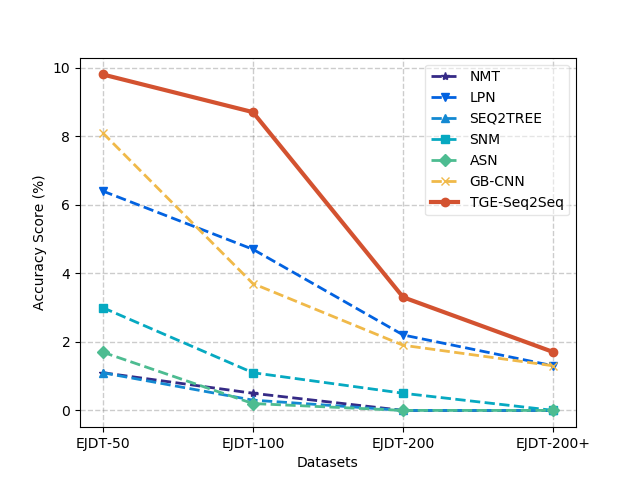
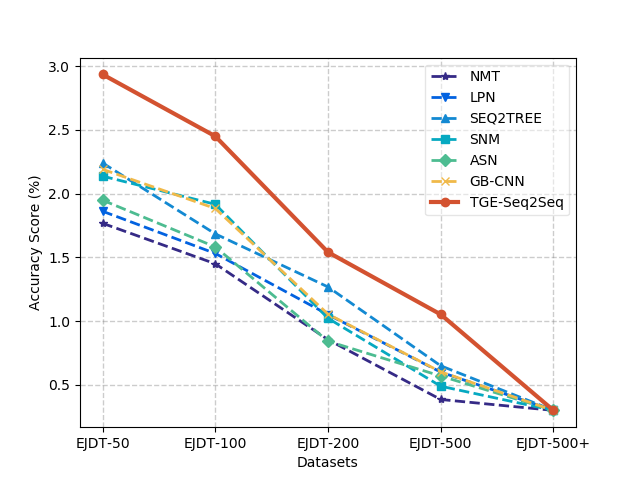
add some pic drawer

diff --git a/des_len_BLEU.py b/des_len_BLEU.py
@@ -5,36 +5,36 @@ import xlrd
 workbook = xlrd.open_workbook("tables.xlsx")
 sheet1 = workbook.sheet_by_index(7)
 
-x1 = ['[0,10]','[10,20]', '[20,30]', '[30,40]', '[0,50]', '[50,100]', '[100,150]', '[150,200]']
+x1 = ['...', '[10,20]', '[20,30]', '[30,40]', '[0,50]', '[50,100]', '[100,150]', '[150,200]','[200,500]','[500+]']
 x_1 = [10, 20, 30, 40]
-x_2 = [55, 75, 65]
-x_3 = [45, 65, 85, 95, 105]
-
-# x_1 = np.array(x_1)
-# x_2 = np.array(x_2)
-# x_3 = np.array(x_3)
+x_2 = [48.5, 58.5, 68.5]
+x_3 = [51.5, 61.5, 71.5, 80, 90, 100]
+x_0 = [15, 20, 30, 40, 50, 60, 70, 80, 90, 100]
+x_1 = np.array(x_1)
+x_2 = np.array(x_2)
+x_3 = np.array(x_3)
 
 data = []
 
-for i in range(15):
+for i in range(16):
     data.append(float(sheet1.cell_value(i+1, 7))/100)
 
 print(data)
 
 data = np.array(data)
 plt.title("")
-plt.xlabel("Datasets")
-plt.ylabel("BLEU")
+plt.xlabel("Description Length")
+plt.ylabel("BLEU Score (%)")
 
-plt.bar(x_1, data[0:4], width=5, label="HS", )  #NMT ACC
-plt.bar(x_2, data[5:8], width=5, label="MTG", )
-plt.bar(x_3, data[9:14], width=5, label="E-JDT",)
+plt.bar(x_1-5, data[0:4], width=3, label="HS", color='#db3934' )  #NMT ACC
+plt.bar(x_2-5, data[5:8], width=3, label="MTG", color='#ffc758' )
+plt.bar(x_3-5, data[9:15], width=3, label="E-JDT", color='#094b63')
 
-plt.xticks([index for index in x_1+x_2], x1)
-plt.xticks(rotation=-45)    # 设置x轴标签旋转角度
-plt.grid(linestyle = '--',linewidth =1, color= 'gray',alpha = 0.4)
+plt.xticks([index-5 for index in x_0], x1)
+plt.xticks(rotation=45)    # 设置x轴标签旋转角度
+plt.grid(linestyle='--', linewidth=1, color='gray', alpha=0.4)
 plt.legend(framealpha=0.5)
 # plt.ylim(0, 1)
-# plt.xlim(10, )
-plt.savefig("./figure/resultBLEU.png")
+plt.xlim(8, )
+plt.savefig("./figure/des_length_BLEU.png")
 plt.show()

diff --git a/big_exp_MTG_BLEU.py b/big_exp_MTG_BLEU.py
@@ -1,0 +1,35 @@
+from matplotlib import pyplot as plt
+import numpy as np
+import xlrd
+
+workbook = xlrd.open_workbook("tables.xlsx")
+sheet1 = workbook.sheet_by_index(5)
+
+x1 = ['MTG-50', 'MTG-100', 'MTG-200', 'MTG-200+']
+x = [1, 2, 3, 4]
+x = np.array(x)
+data = []
+_ = []
+for i in range(36):
+    for j in range(7):
+        _.append(sheet1.cell_value(i+1, j+2))
+    data.append(_)
+    _ = []
+
+plt.xlabel("Datasets")
+plt.ylabel("BLEU Score (%)")
+plt.plot(x, [data[12][0], data[15][0], data[18][0], data[21][0]], '*--', label='NMT', linewidth=2, color="#352A86")
+plt.plot(x, [data[12][1], data[15][1], data[18][1], data[21][1]], 'v--', label='LPN', linewidth=2, color="#0262E0")
+plt.plot(x, [data[12][2], data[15][2], data[18][2], data[21][2]], '^--', label='SEQ2TREE', linewidth=2, color="#1389D2")
+plt.plot(x, [data[12][3], data[15][3], data[18][3], data[21][3]], 's--', label='SNM', linewidth=2, color="#06A9C1")
+plt.plot(x, [data[12][4], data[15][4], data[18][4], data[21][4]], 'D--', label='ASN', linewidth=2, color="#4DBC91")
+plt.plot(x, [data[12][5], data[15][5], data[18][5], data[21][5]], 'x--', label='GB-CNN', linewidth=2, color="#F0B949")
+plt.plot(x, [data[12][6], data[15][6], data[18][6], data[21][6]], 'o-', label='TGE-Seq2Seq', linewidth=3, color="#D35230")
+
+plt.xticks([index for index in x], x1)
+
+plt.grid(linestyle = '--',linewidth =1, color= 'gray',alpha = 0.4)
+plt.legend(framealpha=0.5)
+plt.savefig('./figure/bigLineMTG_BLEU.png')
+plt.show()
+

diff --git a/big_exp_HS_BLEU.py b/big_exp_HS_BLEU.py
@@ -1,0 +1,34 @@
+from matplotlib import pyplot as plt
+import numpy as np
+import xlrd
+
+workbook = xlrd.open_workbook("tables.xlsx")
+sheet1 = workbook.sheet_by_index(5)
+
+x1 = ['HS-50', 'HS-100', 'HS-200', 'HS-200+']
+x = [1, 2, 3, 4]
+x = np.array(x)
+data = []
+_ = []
+for i in range(36):
+    for j in range(7):
+        _.append(sheet1.cell_value(i+1, j+2))
+    data.append(_)
+    _ = []
+
+plt.xlabel("Datasets")
+plt.ylabel("BLEU Score (%)")
+plt.plot(x, [data[0][0], data[3][0], data[6][0], data[9][0]], '*--', label='NMT', linewidth=2, color="#352A86")
+plt.plot(x, [data[0][1], data[3][1], data[6][1], data[9][1]], 'v--', label='LPN', linewidth=2, color="#0262E0")
+plt.plot(x, [data[0][2], data[3][2], data[6][2], data[9][2]], '^--', label='SEQ2TREE', linewidth=2, color="#1389D2")
+plt.plot(x, [data[0][3], data[3][3], data[6][3], data[9][3]], 's--', label='SNM', linewidth=2, color="#06A9C1")
+plt.plot(x, [data[0][4], data[3][4], data[6][4], data[9][4]], 'D--', label='ASN', linewidth=2, color="#4DBC91")
+plt.plot(x, [data[0][5], data[3][5], data[6][5], data[9][5]], 'x--', label='GB-CNN', linewidth=2, color="#F0B949")
+plt.plot(x, [data[0][6], data[3][6], data[6][6], data[9][6]], 'o-', label='TGE-Seq2Seq', linewidth=3, color="#D35230")
+
+plt.xticks([index for index in x], x1)
+
+plt.grid(linestyle = '--',linewidth =1, color= 'gray',alpha = 0.4)
+plt.legend(framealpha=0.5)
+plt.savefig('./figure/bigLineHS_BLEU.png')
+plt.show()

diff --git a/big_exp_EJDT_BLEU.py b/big_exp_EJDT_BLEU.py
@@ -3,7 +3,7 @@ import numpy as np
 import xlrd
 
 workbook = xlrd.open_workbook("tables.xlsx")
-sheet1 = workbook.sheet_by_index(1)
+sheet1 = workbook.sheet_by_index(5)
 
 x1 = ['EJDT-50', 'EJDT-100', 'EJDT-200', 'EJDT-500', 'EJDT-500+']
 
@@ -18,7 +18,7 @@ for i in range(39):
     _ = []
 
 plt.xlabel("Datasets")
-plt.ylabel("Accuracy Score (%)")
+plt.ylabel("BLEU Score (%)")
 plt.plot(x, [data[24][0], data[27][0], data[30][0], data[33][0], data[36][0]], '*--', label='NMT', linewidth=2, color="#352A86")
 plt.plot(x, [data[24][1], data[27][1], data[30][1], data[33][1], data[36][0]], 'v--', label='LPN', linewidth=2, color="#0262E0")
 plt.plot(x, [data[24][2], data[27][2], data[30][2], data[33][2], data[36][0]], '^--', label='SEQ2TREE', linewidth=2, color="#1389D2")
@@ -31,5 +31,5 @@ plt.xticks([index for index in x], x1)
 
 plt.grid(linestyle = '--',linewidth =1, color= 'gray',alpha = 0.4)
 plt.legend(framealpha=0.5, loc='upper right')
-plt.savefig('./figure/bigLineEJDT_ACC.png')
+plt.savefig('./figure/bigLineEJDT_BLEU.png')
 plt.show()

diff --git a/table2_BLEU.py b/table2_BLEU.py
@@ -18,7 +18,7 @@ for i in range(6):
 
 plt.title("")
 plt.xlabel("Datasets")
-plt.ylabel("BLEU")
+plt.ylabel("BLEU-4 Score (%)")
 
 plt.bar(x, [data[1][0], data[3][0], data[5][0]], width=0.1, label="NMT", color="#352A86")  #NMT ACC
 plt.bar(x+0.1, [data[1][1], data[3][1], data[5][1]], width=0.1, label="LPN", color="#0262E0")
@@ -31,6 +31,6 @@ plt.bar(x+0.6, [data[1][6], data[3][6], data[5][6]], width=0.1, label="TGE-Seq2S
 plt.xticks([index + 0.2 for index in x], x1)
 plt.grid(linestyle = '--',linewidth =1, color= 'gray',alpha = 0.4)
 plt.legend(framealpha=0.5)
-plt.ylim(0, 1)
+plt.ylim(0, 0.31)
 plt.savefig("./figure/resultBLEU.png")
 plt.show()

diff --git a/table2_ACC.py b/table2_ACC.py
@@ -18,7 +18,7 @@ for i in range(6):
 
 plt.title("")
 plt.xlabel("Datasets")
-plt.ylabel("Accuracy")
+plt.ylabel("Accuracy Score (%)")
 plt.bar(x, [data[0][0], data[2][0], data[4][0]], width=0.1, label="NMT", color="#352A86")  #NMT ACC
 plt.bar(x+0.1, [data[0][1], data[2][1], data[4][1]], width=0.1, label="LPN", color="#0262E0")
 plt.bar(x+0.2, [data[0][2], data[2][2], data[4][2]], width=0.1, label="SEQ2TREE", color="#1389D2")
